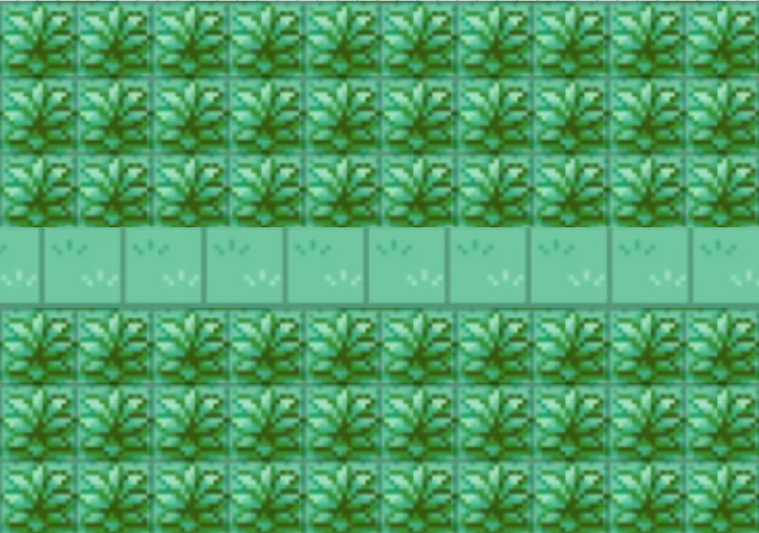
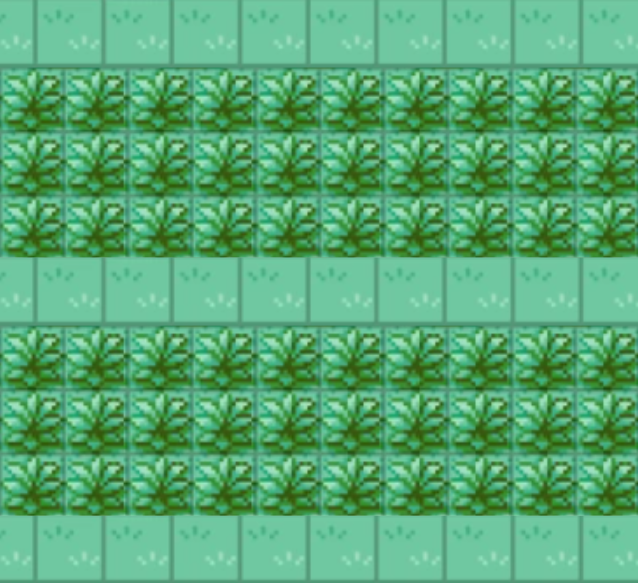
pokemon game

diff --git a/semana 3 curso 2/ator.js b/semana 3 curso 2/ator.js
@@ -1,12 +1,12 @@
 //ator
 let xAtor = 80;
-let yAtor = 366;
+let yAtor = 345;
 let colisao = false;
 let pontos = 0;
 
 
 function mostraAtor(){
-  image(imagemDoAtor, xAtor, yAtor, 40, 40);
+  image(imagemDoAtor, xAtor, yAtor, 100, 60);
 }
 
 function movimentaAtor(){
@@ -15,10 +15,10 @@ function movimentaAtor(){
   }
   if (keyIsDown(DOWN_ARROW)){
       if(seAtorPodeSeMover()){
-      yAtor += 3;
+        yAtor += 3;
       }}
-      if (keyIsDown(RIGHT_ARROW) && xAtor < 461){
-      xAtor += 3
+      if (keyIsDown(RIGHT_ARROW) && xAtor < 430){
+        xAtor += 3
       }
       if (keyIsDown(LEFT_ARROW) && xAtor > 0) {
         xAtor -= 3
@@ -27,8 +27,8 @@ function movimentaAtor(){
 
 
 function verificaColisao() {
-  for(let i = 0; i < imagensCarros.length; i++){
-    colisao = collideRectCircle(xCarros[i], yCarros[i], comprimentoCarro, alturaCarro, xAtor, yAtor + 4, 15)
+  for(let i = 0; i < imagensPokemons.length; i++){
+    colisao = collideRectRect(xPokemons[i], yPokemons[i], comprimentoPokemon - 60, 40, xAtor, yAtor + 10, 22, 28)
     if (colisao) {
       voltaAtorParaPosicaoInicial()
       somDaColisao.play()
@@ -40,7 +40,7 @@ function verificaColisao() {
 }
 
 function voltaAtorParaPosicaoInicial() {
-  yAtor = 366
+  yAtor = 345
 }
 
 function incluiPontos() {
@@ -51,7 +51,7 @@ function incluiPontos() {
 }
 
 function marcaPonto(){
-    if(yAtor < 12){
+    if(yAtor < 8){
         pontos++;
         somDoPonto.play()
         voltaAtorParaPosicaoInicial();
@@ -63,5 +63,5 @@ function pontosMaiorQueZero() {
 }
 
 function seAtorPodeSeMover() {
-    return yAtor < 366
+    return yAtor < 345
 }

diff --git a/semana 3 curso 2/carro.js b/semana 3 curso 2/carro.js
@@ -1,30 +1,30 @@
-let xCarros = [600, 600, 600, 600, 600, 600];
-let yCarros = [40, 96, 152, 210, 270, 318];
-let velocidadeCarros = [2, 3, 2.5, 4, 3.3, 2.3];
-let comprimentoCarro = 50;
-let alturaCarro = 40;
+let xPokemons = [600, 600, 600, 600, 600, 600];
+let yPokemons = [43, 93, 135, 220, 268, 310];
+let velocidadePokemon = [2, 3, 2.5, 4, 3.3, 2.3];
+let comprimentoPokemon = 90;
+let alturaPokemon = 50;
 // carro 2
     
 // carro 3
 
-function mostraCarro(){
-    for (let i = 0; i < imagensCarros.length; i++){
-    image(imagensCarros[i], xCarros[i], yCarros[i], comprimentoCarro, alturaCarro);
+function mostraPokemon(){
+    for (let i = 0; i < imagensPokemons.length; i++){
+    image(imagensPokemons[i], xPokemons[i], yPokemons[i], comprimentoPokemon, alturaPokemon);
   }
   }
   
-  function movimentaCarro(){
-    for (let i = 0; i < imagensCarros.length; i++ ){
-    xCarros[i] -= velocidadeCarros[i];
+  function movimentaPokemon(){
+    for (let i = 0; i < imagensPokemons.length; i++ ){
+    xPokemons[i] -= velocidadePokemon[i];
   }
   }
-  function voltaPosicaoInicialDoCarro() {
-    for (let i = 0; i < imagensCarros.length; i++)
-    if(passouTodaATela(xCarros[i])) {
-    xCarros[i] = 600;
+  function voltaPosicaoInicialDoPokemon() {
+    for (let i = 0; i < imagensPokemons.length; i++)
+    if(passouTodaATela(xPokemons[i])) {
+    xPokemons[i] = 600;
     }
   }
   
-  function passouTodaATela(xCarro) {
-    return xCarro < -50;
+  function passouTodaATela(xPokemons) {
+    return xPokemons < -50;
   }

diff --git a/semana 3 curso 2/imagem.js b/semana 3 curso 2/imagem.js
@@ -1,8 +1,8 @@
 let imagemDaEstrada;
 let imagemDoAtor;
-let imagemCarro;
-let imagemCarro2;
-let imagemCarro3;
+let pokemon;
+let pokemon2;
+let pokemon3;
 
 // sons
 
@@ -18,8 +18,8 @@ function preload(){
 
   imagemDaEstrada = loadImage("./imagens/estrada.png");
   imagemDoAtor = loadImage("imagens/gengar.png");
-  imagemCarro = loadImage("imagens/carro-1.png");
-  imagemCarro2 = loadImage("imagens/carro-2.png");
-  imagemCarro3 = loadImage("imagens/carro-3.png"); 
-  imagensCarros = [imagemCarro, imagemCarro2, imagemCarro3, imagemCarro, imagemCarro2, imagemCarro3]
+  pokemon = loadImage("imagens/pokemon-1.png");
+  pokemon2 = loadImage("imagens/pokemon-2.png");
+  pokemon3 = loadImage("imagens/pokemon-3.png"); 
+  imagensPokemons = [pokemon, pokemon2, pokemon3, pokemon, pokemon2, pokemon3]
 }

diff --git a/semana 3 curso 2/sketch.js b/semana 3 curso 2/sketch.js
@@ -9,13 +9,14 @@ function setup() {
 function draw() {
   background(imagemDaEstrada);
   mostraAtor();
-  mostraCarro();
-  movimentaCarro();
+  mostraPokemon();
+  movimentaPokemon();
   movimentaAtor();
-  voltaPosicaoInicialDoCarro();
+  voltaPosicaoInicialDoPokemon();
   verificaColisao();
   incluiPontos();
   marcaPonto()
+  console.log(verificaColisao)
 }
 
 
